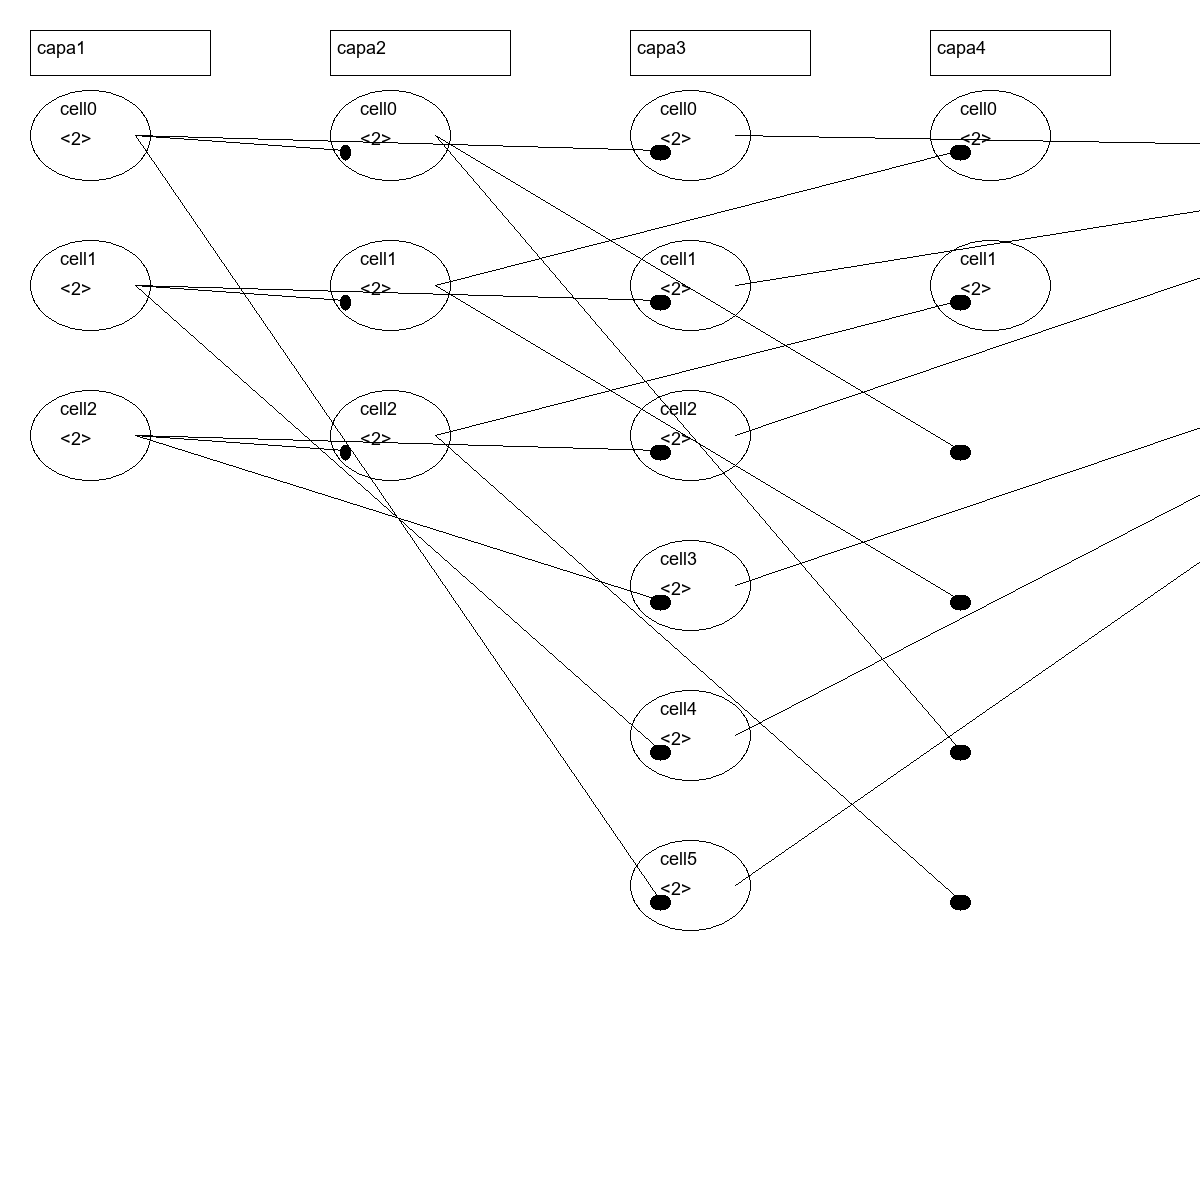
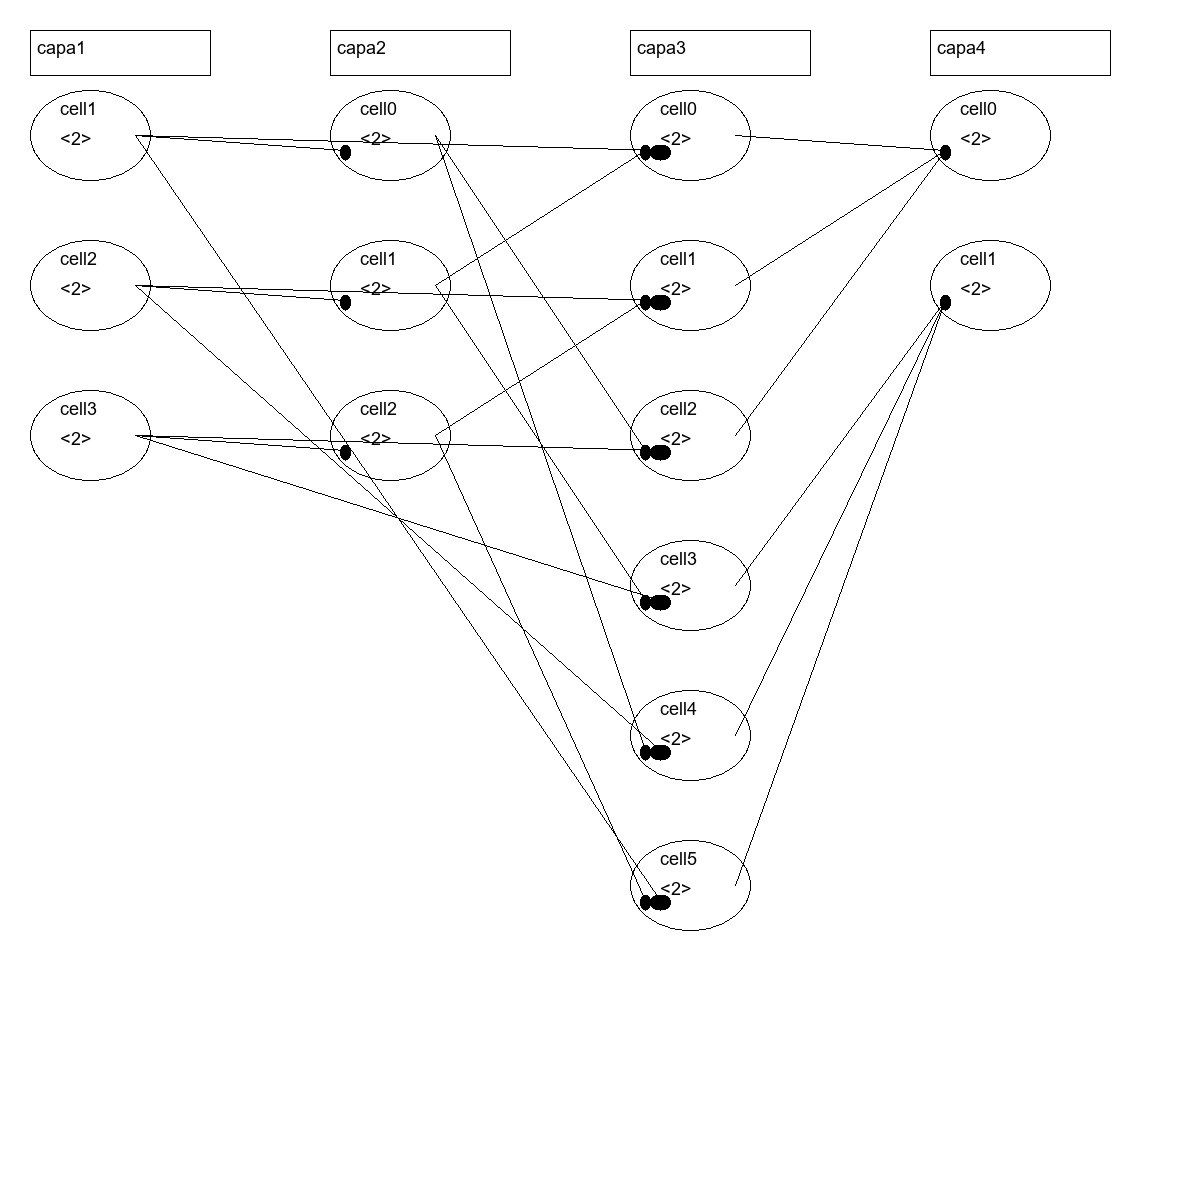
fixed graph generation :+1:
it was just a matter of checking the "step" between columns

diff --git a/lib/Red.py b/lib/Red.py
@@ -169,8 +169,8 @@ class Red:
                         draw.ellipse(((x + 80, (1 + abs(int(connexion.destination.name[-1]) - int(connexion.origin.name[-1])) * 70)), (x + 90, (1 + int(connexion.destination.name[-1]) * 70) + 10)), fill='black', outline='black')
 
                     else:
-                        draw.line(((x + 105, connexionY), ((self.getCellColumn(connexion.destination)) * 315 + x, (1 + int(connexion.destination.name[-1])) * 150)), fill="black", width=1)
-                        draw.ellipse(((x + (self.getCellColumn(connexion.destination) * 310), ((1 + int(connexion.destination.name[-1])) * 150) - 5), (x + (self.getCellColumn(connexion.destination) * 320), ((1 + int(connexion.destination.name[-1])) * 150) + 10)), fill="black", outline="black") # this is meant to represent the destination
+                        draw.line(((x + 105, connexionY), ((self.getCellColumn(connexion.destination) - self.getCellColumn(connexion.origin)) * 315 + x, (1 + int(connexion.destination.name[-1])) * 150)), fill="black", width=1)
+                        draw.ellipse(((x + ((self.getCellColumn(connexion.destination) - self.getCellColumn(connexion.origin)) * 310), ((1 + int(connexion.destination.name[-1])) * 150) - 5), (x + ((self.getCellColumn(connexion.destination) - self.getCellColumn(connexion.origin)) * 320), ((1 + int(connexion.destination.name[-1])) * 150) + 10)), fill="black", outline="black") # this is meant to represent the destination
 
                     # this will be to alternate the label left/right (pretty)
                     # if altPos == 0:

diff --git a/neuro.py b/neuro.py
@@ -33,7 +33,7 @@ retu.createConnexion([2, 2], [3, 0], 2)
 retu.createConnexion([2, 3], [3, 1], 2)
 retu.createConnexion([2, 4], [3, 1], 2)
 retu.createConnexion([2, 5], [3, 1], 2)
-
+retu.generateGraph()
 
 a = []
 file = open(sys.argv[1], "r")

diff --git a/lib/Capa.py b/lib/Capa.py
@@ -1,8 +1,8 @@
 from lib.Cell import Cell
 
 class Capa:
-    cellCount = 0
-    capaCount = 0
+    cellCount = 1
+    capaCount = 1
 
     def __init__(self):
         #init without params

diff --git a/lib/Cell.py b/lib/Cell.py
@@ -1,7 +1,7 @@
 from lib.Connexion import Connexion
 
 class Cell:
-    cellCount = 0
+    cellCount = 1
 
     def __init__(self, capaId):
         #Neurons constructor
